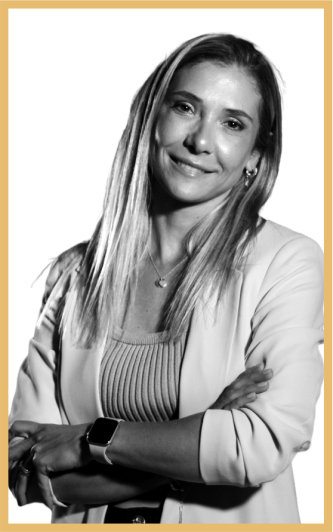
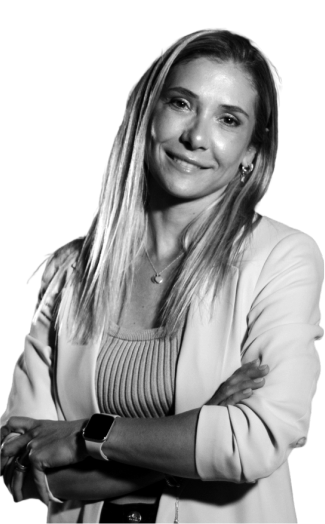
fix(programa,oradores): remove dashes from no-time activities, update Pedace photos

diff --git a/src/components/programa.tsx b/src/components/programa.tsx
@@ -114,7 +114,7 @@ export function Programa() {
                 className="flex items-baseline gap-6 border-l border-gris-oscuro py-4 pl-6 transition-colors hover:border-dorado/50"
               >
                 <span className="w-12 shrink-0 font-mono text-sm font-bold leading-none text-dorado sm:w-14 md:text-base">
-                  {act.hora || "—"}
+                  {act.hora || ""}
                 </span>
                 <div>
                   <p className="font-sans text-sm font-semibold leading-none text-foreground md:text-base">
